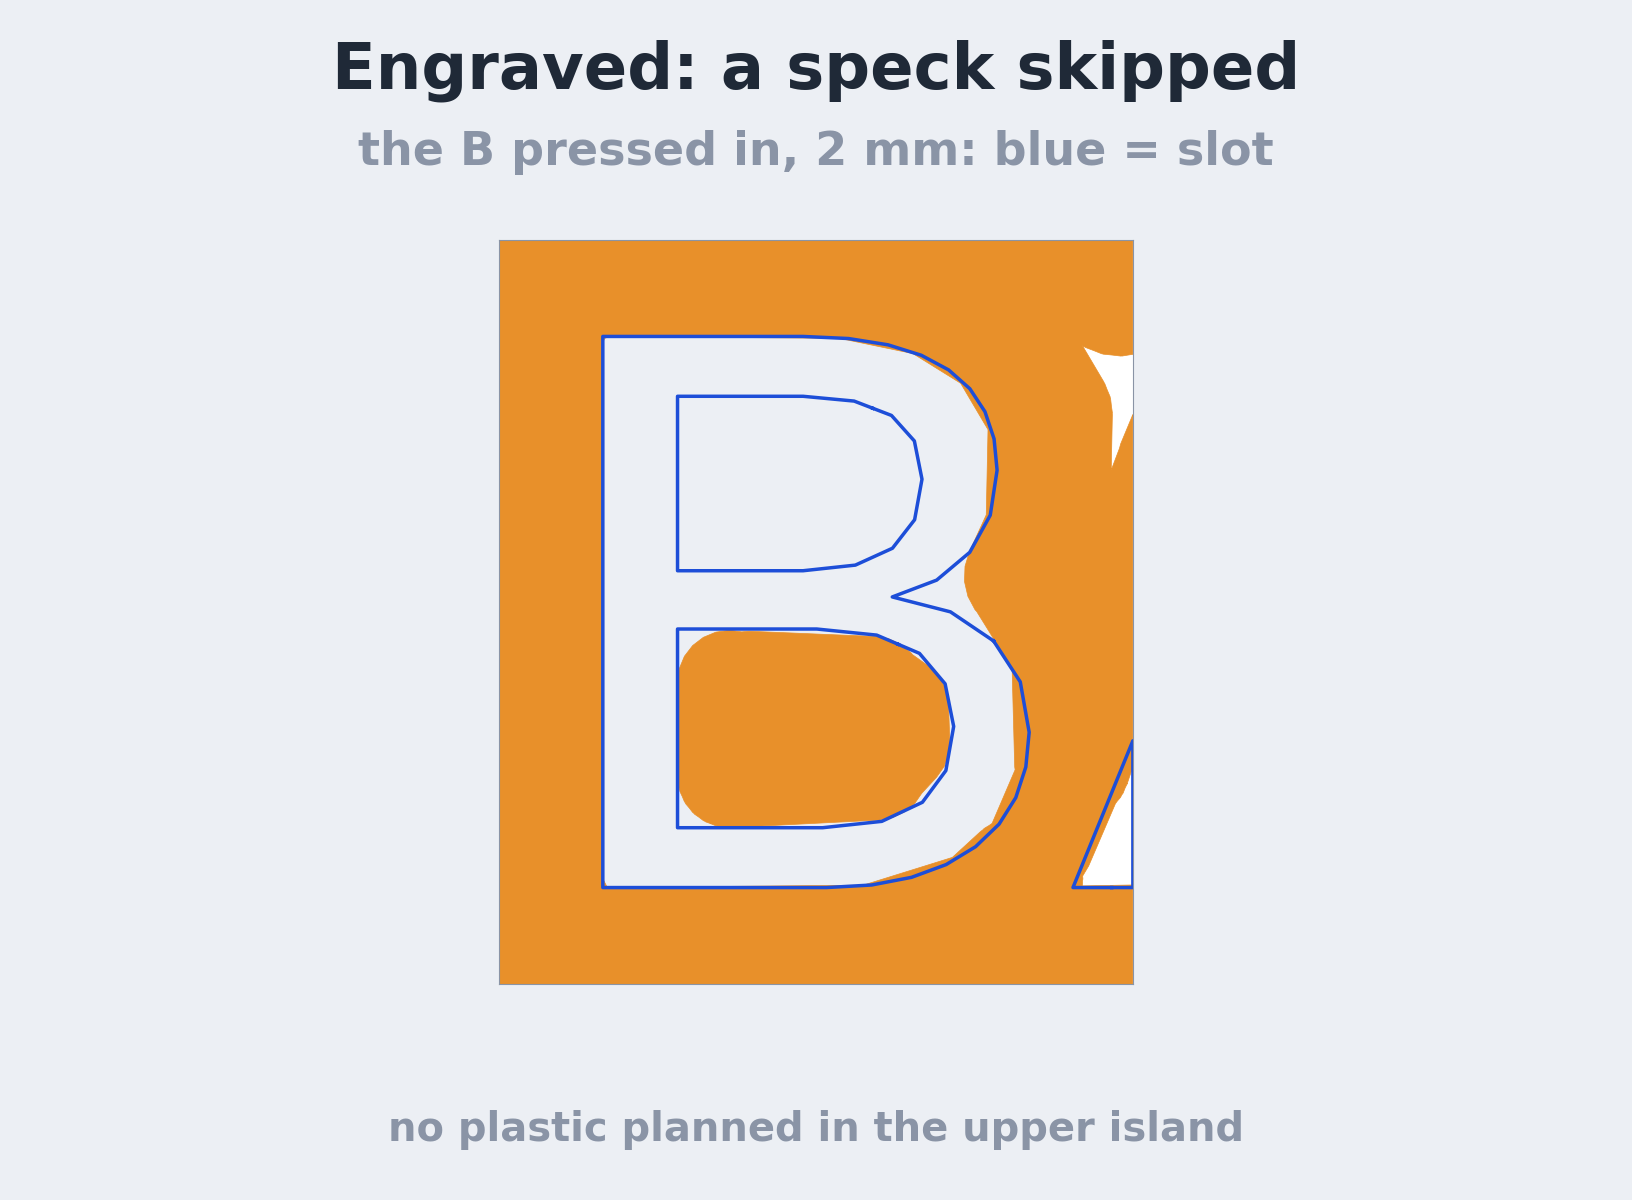
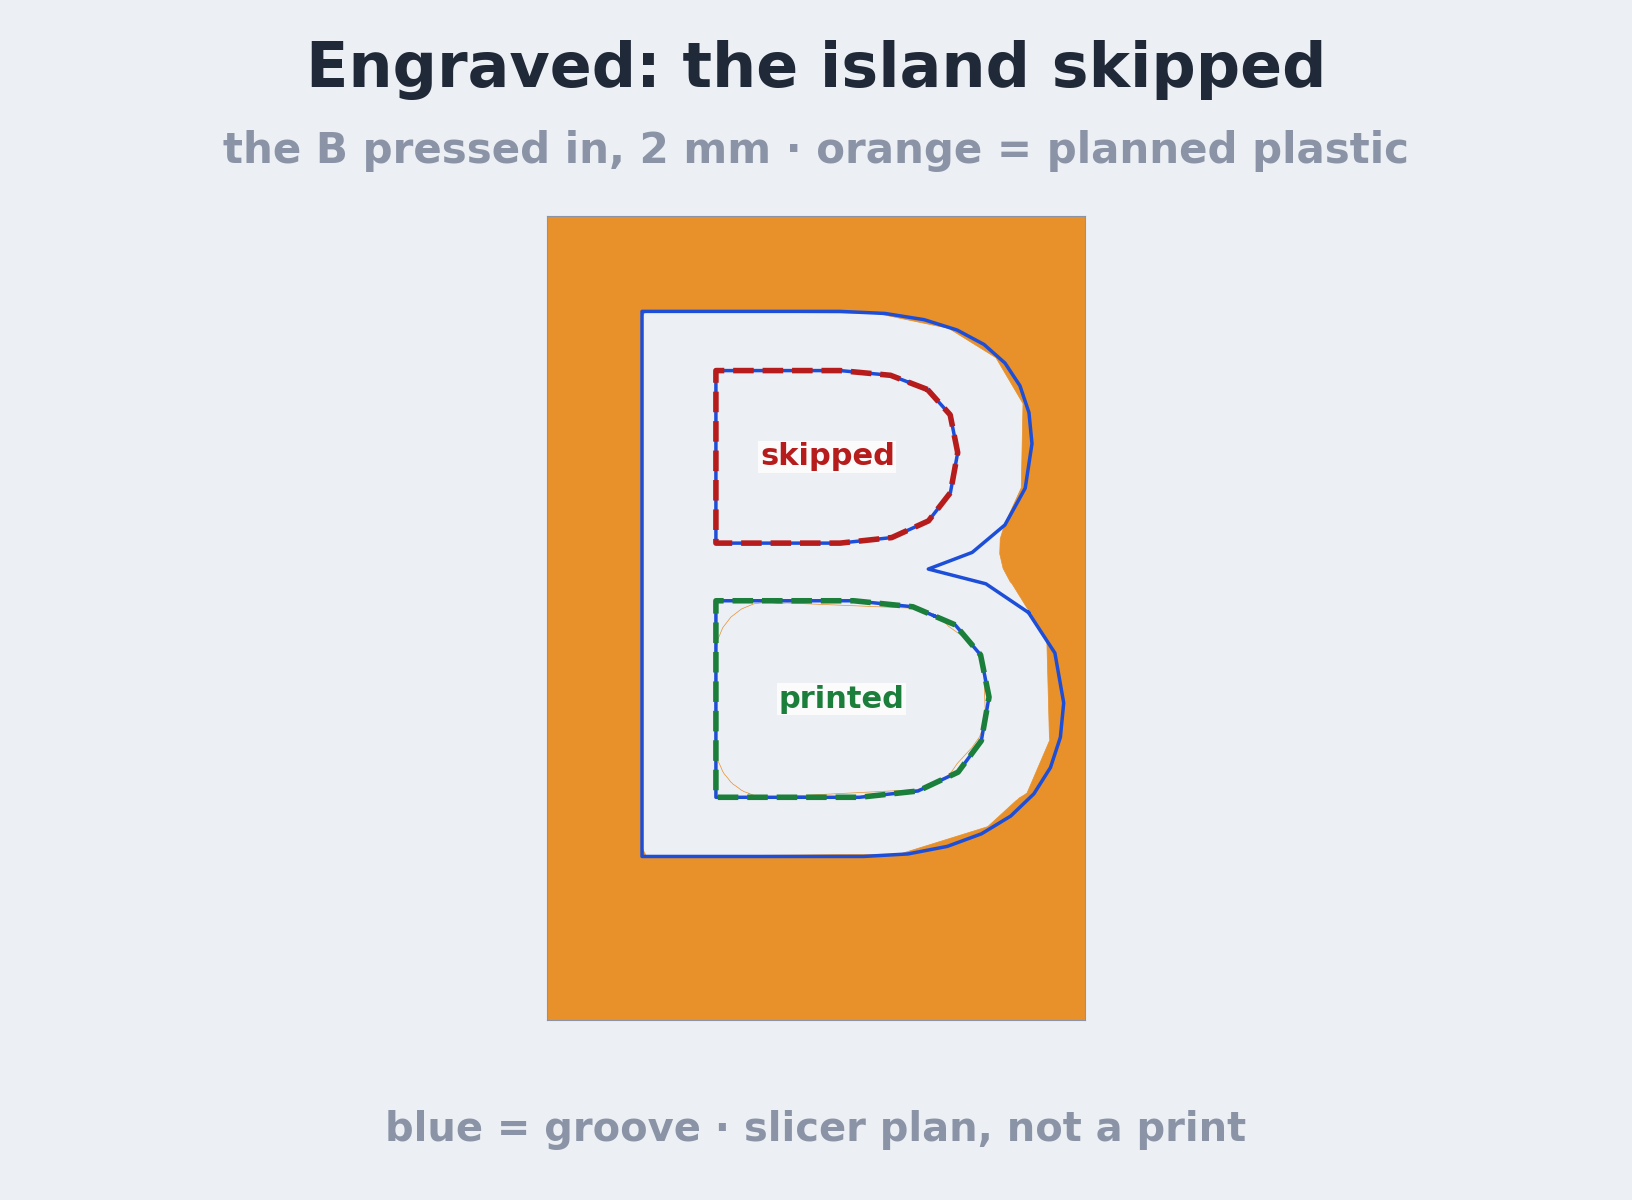
Nametag lab: cards after script review round 1 (outline B with 0.4 mm bar, islands marked, same-scale B at 2 and 3 mm)

Changed region(s): [[0.125, 0.0308, 0.875, 0.8633], [0.2188, 0.925, 0.7812, 0.9558]]

diff --git a/video/draw.py b/video/draw.py
@@ -64,7 +64,7 @@ def draw_geom(ax, g, fc=None, ec=INK, lw=1.5, alpha=1.0, z=1):
             ax.plot(x, y, color=ec, lw=lw, zorder=z + 1)
 
 
-def panel(f, rect, case, z, window, show_design=True, show_plan=True, mode='raised'):
+def panel(f, rect, case, z, window, show_design=True, show_plan=True, mode='raised', bar=False, islands=False, outline_only=False):
     ax = f.add_axes(rect)
     ax.set_facecolor('white')
     sec, P = layer(case, z)
@@ -79,7 +79,22 @@ def panel(f, rect, case, z, window, show_design=True, show_plan=True, mode='rais
         if show_plan:
             draw_geom(ax, P.intersection(win), fc=ORANGE, ec=ORANGE, lw=0.5, alpha=0.9)
         if show_design:
-            draw_geom(ax, sec.intersection(win), fc=None if show_plan else INK, ec=INK, lw=2.5, z=3)
+            draw_geom(ax, sec.intersection(win), fc=None if (show_plan or outline_only) else INK, ec=INK, lw=2.5, z=3)
+    if islands and mode == 'engraved':
+        slots = [q for q in G.parts(box(-25, -10, 25, 10).difference(sec)) if q.intersects(win) and q.area < 20]
+        isl = sorted([h for q in slots for h in G.holes(q) if h.intersects(win) and h.within(win.buffer(0.01))],
+                     key=lambda h: -h.centroid.y)
+        for k, h in enumerate(isl[:2]):
+            x, y = h.exterior.xy
+            got = h.intersection(P).area / h.area
+            ax.plot(x, y, color=RED if got < 0.5 else GREEN, lw=4, ls='--', zorder=6)
+            ax.text(h.centroid.x, h.centroid.y, 'skipped' if got < 0.5 else 'printed', color=RED if got < 0.5 else GREEN,
+                    fontsize=22, fontweight='bold', ha='center', va='center', zorder=7,
+                    bbox=dict(fc='white', ec='none', alpha=0.8, pad=1))
+    if bar:
+        x0, y0 = window[0] + 0.08, window[1] + 0.08
+        ax.add_patch(Rectangle((x0, y0), 0.4, 0.06, fc=RED, ec='none', zorder=8))
+        ax.text(x0 + 0.45, y0 + 0.03, '0.4 mm tip', color=RED, fontsize=20, fontweight='bold', va='center', zorder=8)
     ax.set_xlim(window[0], window[2])
     ax.set_ylim(window[1], window[3])
     ax.set_aspect('equal')
@@ -98,9 +113,8 @@ def letter_window(case, z, k=3, pad=0.35):
     pieces = G.parts(sec if case.startswith('raised') else tag.difference(sec), 1e-3)
     row2 = sorted([p for p in pieces if p.centroid.y < -0.5 and p.area < 20], key=lambda p: p.centroid.x)
     x0, y0, x1, y1 = row2[k].bounds
-    w = max(x1 - x0, (y1 - y0) * 0.8)
-    cx, cy = (x0 + x1) / 2, (y0 + y1) / 2
-    return (cx - w / 2 - pad, y0 - pad, cx + w / 2 + pad, y1 + pad)
+    nxt = row2[k + 1].bounds[0] if k + 1 < len(row2) else x1 + pad
+    return (x0 - pad, y0 - pad - 0.25, min(x1 + pad, (x1 + nxt) / 2), y1 + pad)   # stop before the next letter; room for the bar
 
 
 B2 = None
@@ -114,14 +128,14 @@ def hook(w, h, name, vertical=False):
     f = fig(w, h)
     lo, hi = r2('raised-h2')
     if vertical:
-        text(f, w / 2, 70, 'Small letters,', 76)
-        text(f, w / 2, 170, 'planned fat', 84, RED)
+        text(f, w / 2, 60, 'Small letters,', 76)
+        text(f, w / 2, 160, 'planned fat', 84, RED)
         bw = letter_window('raised-h2', 3.6)
-        panel(f, [0.2, 0.5, 0.6, 0.3], 'raised-h2', 3.6, bw, show_plan=False)
-        text(f, w / 2, 980, 'the B, as designed', 50, INK)
-        panel(f, [0.2, 0.15, 0.6, 0.3], 'raised-h2', 3.6, bw)
-        text(f, w / 2, 1520, f"the slicer's plan: +{(lo - 1) * 100:.0f} to +{(hi - 1) * 100:.0f}%", 50, RED)
-        text(f, w / 2, 1620, '2 mm letters · slicer plan, not a print', 38, GREY)
+        panel(f, [0.25, 0.555, 0.5, 0.27], 'raised-h2', 3.6, bw, show_plan=False)    # y 345..864 px
+        text(f, w / 2, 885, 'the B, as designed', 50, INK)
+        panel(f, [0.25, 0.235, 0.5, 0.27], 'raised-h2', 3.6, bw)                     # y 955..1469 px
+        text(f, w / 2, 1500, f"the slicer's plan: +{(lo - 1) * 100:.0f} to +{(hi - 1) * 100:.0f}%", 50, RED)
+        text(f, w / 2, 1600, '2 mm letters · slicer plan, not a print', 38, GREY)
     else:
         text(f, w / 2, 40, f"2 mm letters: planned {(lo - 1) * 100:.0f}-{(hi - 1) * 100:.0f}% fatter", 64, RED)
         bw = letter_window('raised-h2', 3.6)
@@ -150,7 +164,7 @@ def strokes():
     lay = a['layers']['3.6']['letters']
     l2 = [r for r in lay.values() if r['line'] == 2]
     text(f, W / 2, 40, "Thinnest stroke, 2 mm letters", 60)
-    text(f, W / 2, 130, 'our measuring program, from the saved design', 40, GREY)
+    text(f, W / 2, 130, 'our measuring program, our 2 mm tag', 40, GREY)
     ax = f.add_axes([0.12, 0.15, 0.8, 0.65])
     ax.set_facecolor(BG)
     names = [r['letter'] for r in l2]
@@ -235,15 +249,15 @@ def prompt():
 
 def both():
     f = fig()
-    text(f, W / 2, 40, '2 mm vs 3 mm, both ways', 62)
-    panel(f, [0.03, 0.47, 0.46, 0.3], 'raised-h2', 3.6, ROW2[2])
-    panel(f, [0.51, 0.47, 0.46, 0.3], 'engraved-h2', 2.8, ROW2[2], mode='engraved')
-    panel(f, [0.03, 0.1, 0.46, 0.3], 'raised-h3', 3.6, ROW2[3])
-    panel(f, [0.51, 0.1, 0.46, 0.3], 'engraved-h3', 2.8, ROW2[3], mode='engraved')
-    text(f, W * 0.26, 130, 'raised', 50, INK)
-    text(f, W * 0.74, 130, 'engraved', 50, INK)
-    text(f, W / 2, 560, '2 mm: fat / B speck skipped', 42, RED)
-    text(f, W / 2, 1100, '3 mm: clean, both ways', 46, GREEN)
+    text(f, W / 2, 30, '2 mm vs 3 mm, both ways', 62)
+    text(f, W * 0.3, 120, 'raised (GYM BAG)', 44, INK)
+    text(f, W * 0.8, 120, 'engraved (the B)', 44, INK)
+    panel(f, [0.03, 0.47, 0.55, 0.3], 'raised-h2', 3.6, ROW2[2])
+    panel(f, [0.03, 0.1, 0.55, 0.3], 'raised-h3', 3.6, ROW2[3])
+    panel(f, [0.64, 0.45, 0.32, 0.34], 'engraved-h2', 2.8, letter_window('engraved-h2', 2.8), mode='engraved', islands=True)
+    panel(f, [0.64, 0.06, 0.32, 0.34], 'engraved-h3', 2.8, letter_window('engraved-h3', 2.8), mode='engraved', islands=True)
+    text(f, W * 0.3, 1010 - 450, '2 mm: fat', 44, RED)
+    text(f, W * 0.3, 1140, '3 mm: clean', 44, GREEN)
     save(f, 'card-both.png')
 
 
@@ -261,12 +275,13 @@ def runs():
 
 def replies():
     f = fig()
-    text(f, W / 2, 40, 'None of them checked the plan', 60, RED)
+    text(f, W / 2, 40, 'None of them measured', 64, RED)
     q = ['run 1: "from font proportions,', '  not measured on the model"', 'run 2: "I estimated that from the',
          '  font and didn\'t measure it"', 'run 3: "probably too thin"']
     for i, l in enumerate(q):
         text(f, 120, 200 + i * 110, l, 50, INK, ha='left')
-    text(f, W / 2, 820, "the slicer's plan: within 2%", 56, GREEN)
+    text(f, W / 2, 800, "the slicer's plan: within 2%", 54, GREEN)
+    text(f, W / 2, 900, 'guessed 5.5 mm · enough here: 3 mm', 48, INK)
     text(f, W / 2, 1110, 'quotes from each run\'s own reply', 38, GREY)
     save(f, 'card-replies.png')
 
@@ -286,28 +301,51 @@ def named():
 
 def why():
     f = fig()
-    a2 = json.load(open(os.path.join(LAB, 'out', 'raised-h2', 'analysis.json')))['summary']['line2_design_break_width_mm']
-    a3 = json.load(open(os.path.join(LAB, 'out', 'raised-h3', 'analysis.json')))['summary']['line2_design_break_width_mm']
     text(f, W / 2, 40, 'Step 2: taller letters, wider strokes', 58)
-    text(f, W / 2, 250, f"2 mm: {min(a2.values()):.2f}-{max(a2.values()):.2f} mm", 72, RED)
-    text(f, W / 2, 420, f"3 mm: {min(a3.values()):.2f}-{max(a3.values()):.2f} mm", 72, GREEN)
-    lo, hi = r2('raised-h3')
-    text(f, W / 2, 650, f"planned {(lo - 1) * 100:.0f} to {(hi - 1) * 100:.0f}% fatter at 3 mm", 56, INK)
-    text(f, W / 2, 760, 'under our 15% bar', 56, GREEN)
-    text(f, W / 2, 1110, "thinnest stroke per letter, our measuring program", 36, GREY)
+    w2 = letter_window('raised-h2', 3.6)
+    w3 = letter_window('raised-h3', 3.6)
+    span = max(w3[2] - w3[0], w3[3] - w3[1])
+    for k, (case, w) in enumerate((('raised-h2', w2), ('raised-h3', w3))):   # the same scale: both windows span the 3 mm B
+        cx, cy = (w[0] + w[2]) / 2, (w[1] + w[3]) / 2
+        win = (cx - span / 2, cy - span / 2, cx + span / 2, cy + span / 2)
+        panel(f, [0.06 + k * 0.48, 0.2, 0.42, 0.57], case, 3.6, win, bar=True)
+    lo2, hi2 = r2('raised-h2')
+    lo3, hi3 = r2('raised-h3')
+    text(f, W * 0.27, 160, '2 mm', 56, INK)
+    text(f, W * 0.75, 160, '3 mm', 56, INK)
+    text(f, W * 0.27, 980, f'+{(lo2 - 1) * 100:.0f} to +{(hi2 - 1) * 100:.0f}%', 56, RED)
+    text(f, W * 0.75, 980, f'+{(lo3 - 1) * 100:.0f} to +{(hi3 - 1) * 100:.0f}%', 56, GREEN)
+    text(f, W / 2, 1110, 'the B, same scale · planned vs drawn, GYM BAG row', 36, GREY)
     save(f, 'card-why.png')
 
 
 hook(1920, 1080, 'hook-landscape.png')
 hook(1080, 1920, 'hook-vertical.png', vertical=True)
 card_simple('card-hook.png', '2 mm letters, planned fat', None, 'raised-h2', 3.6, ROW2[2], footer='black = designed · orange = planned · slicer plan')
-card_simple('card-stroke.png', 'A stroke: one bar or curve', 'the B, 2 mm tall, as designed', 'raised-h2', 3.6, letter_window('raised-h2', 3.6), plan=False)
+def stroke_card():
+    f = fig()
+    text(f, W / 2, 40, 'A stroke: one bar or curve', 64)
+    text(f, W / 2, 130, 'the B, 2 mm tall, as designed (outline)', 46, GREY)
+    panel(f, [0.25, 0.15, 0.5, 0.67], 'raised-h2', 3.6, letter_window('raised-h2', 3.6), show_plan=False, outline_only=True, bar=True)
+    text(f, W / 2, 1110, 'its strokes: thinner than the red 0.4 mm bar', 42, RED)
+    save(f, 'card-stroke.png')
+
+
+stroke_card()
 card_simple('card-fixed.png', '3 mm: every letter clean', None, 'raised-h3', 3.6, ROW2[3], footer="the slicer's plan, 3 mm tall")
 card_simple('card-tracing.png', 'The slicer traces every line', None, 'raised-h3', 3.6, ROW2[3], footer='each orange line at its own width')
 card_simple('card-blob.png', 'Thinner than the line: a blob', 'the B, 2 mm: design (black) vs plan', 'raised-h2', 3.6, letter_window('raised-h2', 3.6))
 card_simple('card-counters.png', 'Counters: the holes in a B', 'squeezed by fat strokes', 'raised-h2', 3.6, letter_window('raised-h2', 3.6), footer='2 mm tall · slicer plan')
-card_simple('card-engraved.png', 'Engraved: a speck skipped', 'the B pressed in, 2 mm: blue = slot', 'engraved-h2', 2.8, letter_window('engraved-h2', 2.8), mode='engraved',
-            footer='no plastic planned in the upper island')
+def engraved_card():
+    f = fig()
+    text(f, W / 2, 40, 'Engraved: the island skipped', 62)
+    text(f, W / 2, 130, 'the B pressed in, 2 mm · orange = planned plastic', 42, GREY)
+    panel(f, [0.25, 0.15, 0.5, 0.67], 'engraved-h2', 2.8, letter_window('engraved-h2', 2.8), mode='engraved', islands=True)
+    text(f, W / 2, 1110, 'blue = groove · slicer plan, not a print', 40, GREY)
+    save(f, 'card-engraved.png')
+
+
+engraved_card()
 card_simple('card-plan2.png', 'The plan: +44 to +56%', 'GYM BAG, 2 mm, one 0.38 mm line per stroke', 'raised-h2', 3.6, ROW2[2])
 card_simple('card-proof.png', 'Step 3: rebuilt at 3 mm', 'every counter open', 'raised-h3', 3.6, ROW2[3], footer='slicer plan, not a print')
 strokes()
